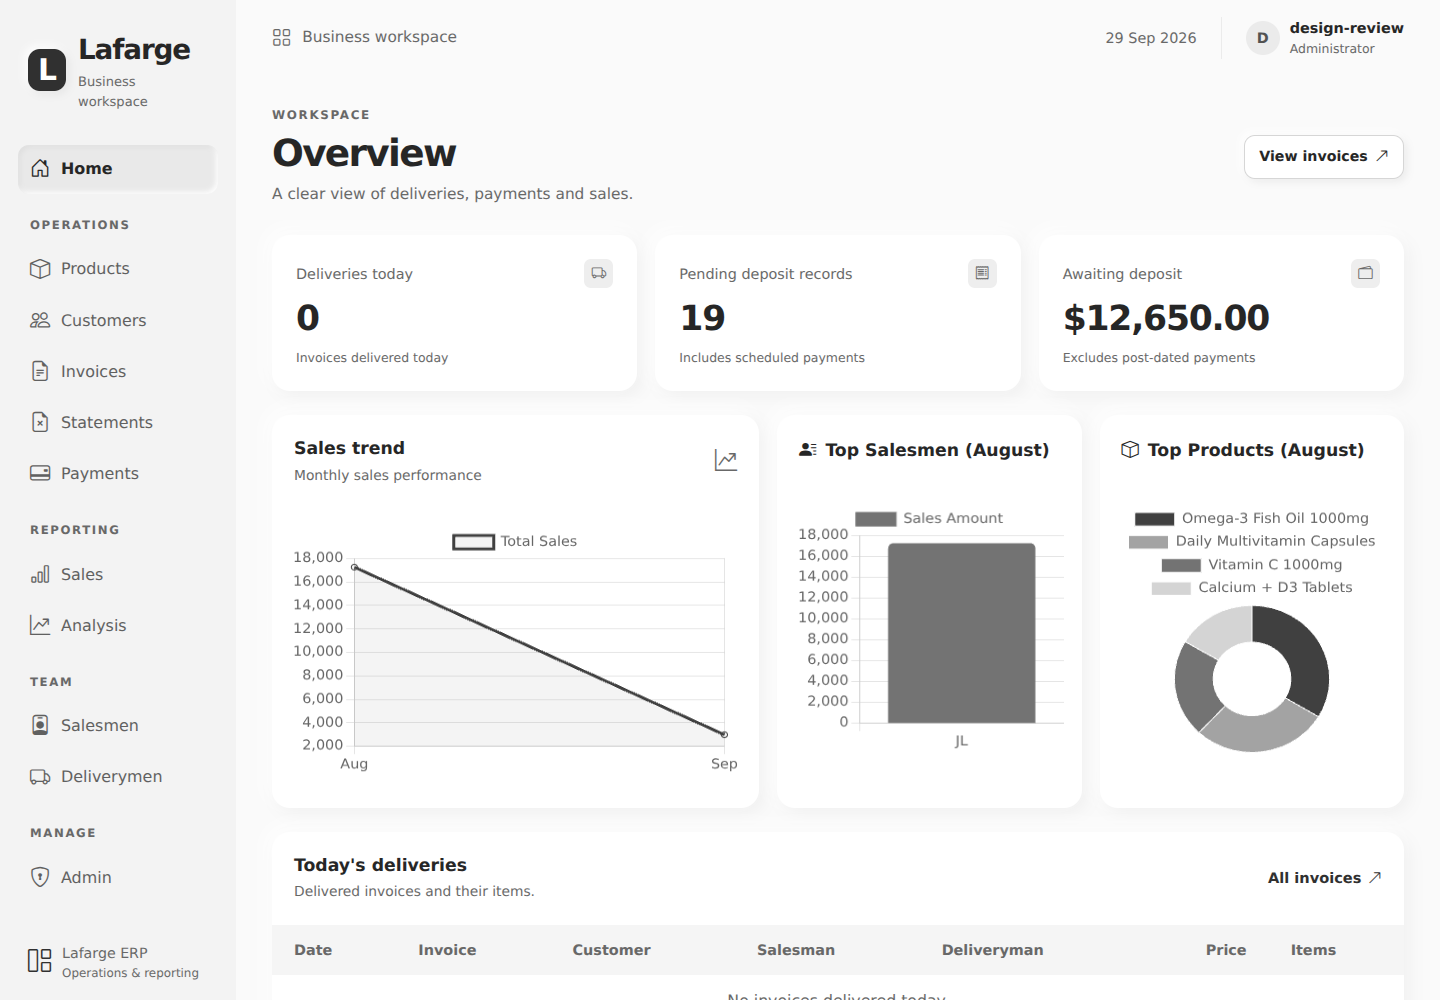
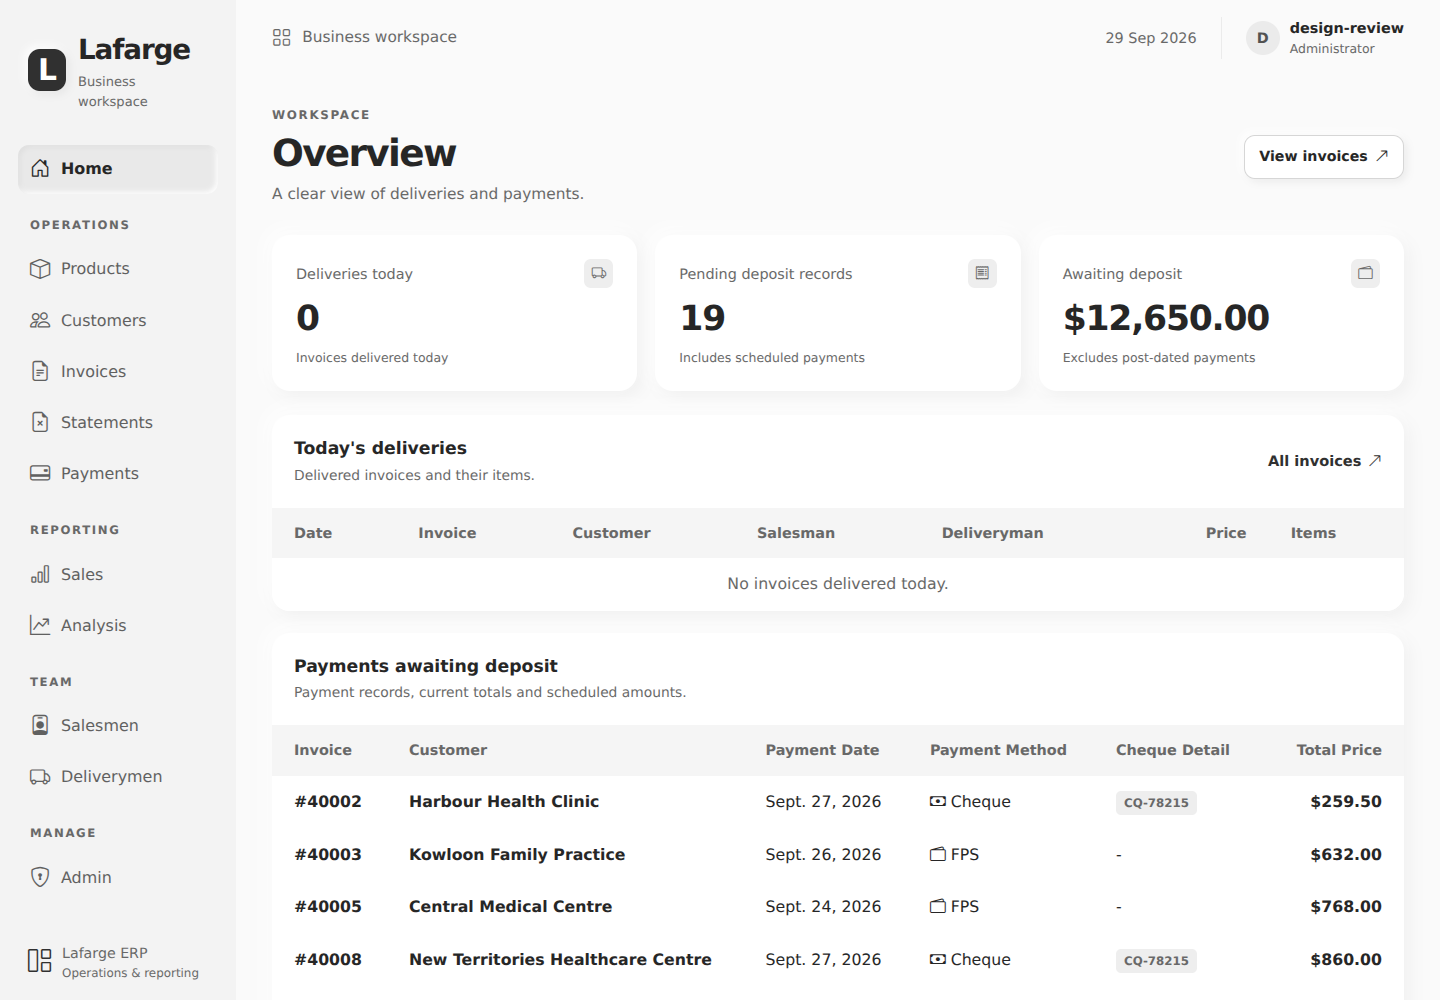
Remove analytics panels from home dashboard

diff --git a/lafarge/invoice/templates/invoice/home.html b/lafarge/invoice/templates/invoice/home.html
@@ -2,16 +2,11 @@
 {% load custom_filter %}
 {% block page_section %}Workspace{% endblock %}
 {% block page_title %}Overview{% endblock %}
-{% block page_description %}A clear view of deliveries, payments and sales.{% endblock %}
+{% block page_description %}A clear view of deliveries and payments.{% endblock %}
 {% block page_actions %}<a href="{% url 'invoice_list' %}" class="btn btn-outline-primary">View invoices <i class="bi bi-arrow-up-right" aria-hidden="true"></i></a>{% endblock %}
 
 {% block content %}
-<div class="metrics-grid"><div class="metric-card"><div class="metric-top"><span>Deliveries today</span><i class="bi bi-truck" aria-hidden="true"></i></div><strong>{{ invoices_today|length }}</strong><small>Invoices delivered today</small></div><div class="metric-card"><div class="metric-top"><span>Pending deposit records</span><i class="bi bi-receipt" aria-hidden="true"></i></div><strong>{{ pending_deposits|length }}</strong><small>Includes scheduled payments</small></div><div class="metric-card"><div class="metric-top"><span>Awaiting deposit</span><i class="bi bi-wallet2" aria-hidden="true"></i></div><strong>${{ total_pending_deposit|currency }}</strong><small>Excludes post-dated payments</small></div></div>{% if user.is_superuser or user.username == 'lafarge' %}
-<div class="dashboard-charts">
-<section class="data-panel trend-panel"><div class="panel-toolbar"><div><h2>Sales trend</h2><p>Monthly sales performance</p></div><i class="bi bi-graph-up-arrow" aria-hidden="true"></i></div><div class="chart-body"><canvas id="salesChart"></canvas></div></section>
-<section class="data-panel border-left-success"><div class="panel-toolbar"><h2 class="card-title">Sales by salesman</h2></div><div class="chart-body"><canvas id="salesmanChart"></canvas></div></section>
-<section class="data-panel"><div class="panel-toolbar"><h2 id="productTitle" class="card-title">Product insights</h2></div><div class="chart-body"><canvas id="productChart"></canvas></div></section>
-</div>{% endif %}
+<div class="metrics-grid"><div class="metric-card"><div class="metric-top"><span>Deliveries today</span><i class="bi bi-truck" aria-hidden="true"></i></div><strong>{{ invoices_today|length }}</strong><small>Invoices delivered today</small></div><div class="metric-card"><div class="metric-top"><span>Pending deposit records</span><i class="bi bi-receipt" aria-hidden="true"></i></div><strong>{{ pending_deposits|length }}</strong><small>Includes scheduled payments</small></div><div class="metric-card"><div class="metric-top"><span>Awaiting deposit</span><i class="bi bi-wallet2" aria-hidden="true"></i></div><strong>${{ total_pending_deposit|currency }}</strong><small>Excludes post-dated payments</small></div></div>
 <div class="page-stack"><section class="data-panel"><div class="panel-toolbar"><div><h2>Today's deliveries</h2><p>Delivered invoices and their items.</p></div><a class="row-action" href="{% url 'invoice_list' %}">All invoices <i class="bi bi-arrow-up-right" aria-hidden="true"></i></a></div><div class="table-responsive" tabindex="0" role="region" aria-label="Today's deliveries"><table class="table align-middle">
                     <thead class="bg-light text-dark">
                     <tr>
@@ -127,8 +122,7 @@
                     {% endfor %}
                     </tfoot>
 
-                </table></div></section></div><script src="https://cdn.jsdelivr.net/npm/chart.js"></script>
-<script>Chart.defaults.font.size = parseFloat(getComputedStyle(document.documentElement).fontSize) * 0.75;</script>
+                </table></div></section></div>
 <script>
 document.addEventListener("DOMContentLoaded", function () {
     document.querySelectorAll("tr[data-href]").forEach(row => {
@@ -137,106 +131,5 @@ document.addEventListener("DOMContentLoaded", function () {
         });
     });
 });
-
-async function fetchSalesmanInsights() {
-    try {
-        const response = await fetch("{% url 'sales_data' %}");
-        const data = await response.json();
-
-        console.log("API Response:", data);
-
-        if (!data.sales_per_month || !data.sales_by_salesman) {
-            console.error("API response is missing required fields:", data);
-            return;
-        }
-
-        const monthNames = ["", "Jan", "Feb", "Mar", "Apr", "May", "Jun", "Jul", "Aug", "Sep", "Oct", "Nov", "Dec"];
-
-        const months = data.sales_per_month.map(item => monthNames[item.month]);
-        const sales = data.sales_per_month.map(item => item.total_sales);
-
-        const salesmen = data.sales_by_salesman.map(item => item.salesman__code);
-        const salesAmounts = data.sales_by_salesman.map(item => item.total_sales);
-
-        // Sales Trend Chart
-        new Chart(document.getElementById("salesChart"), {
-            type: "line",
-            data: {
-                labels: months,
-                datasets: [{
-                    label: "Total Sales",
-                    data: sales,
-                    borderColor: "#404040",
-                    backgroundColor: "rgba(64, 64, 64, 0.06)",
-                    fill: true
-                }]
-            },
-            options: { responsive: true, maintainAspectRatio: false }
-        });
-        // Update Sales by Salesman Chart Title
-                document.querySelector(".border-left-success .card-title").innerHTML =
-                    `<i class="bi bi-person-lines-fill" aria-hidden="true"></i> Top Salesmen (${data.last_month_name})`;
-        // Sales by Salesman Chart
-        new Chart(document.getElementById("salesmanChart"), {
-            type: "bar",
-            data: {
-                labels: salesmen,
-                datasets: [{
-                    label: "Sales Amount",
-                    data: salesAmounts,
-                    backgroundColor: "#737373",
-                    borderColor: "#737373",
-                    borderWidth: 1,
-                    borderRadius: 5
-                }]
-            },
-            options: { responsive: true, maintainAspectRatio: false }
-        });
-
-    } catch (error) {
-        console.error("Error fetching data:", error);
-    }
-}
-
-fetchSalesmanInsights();
-
-async function fetchProductInsights() {
-    try {
-        const response = await fetch("{% url 'product_insights' %}");
-        const data = await response.json();
-
-        if (!data.product_sales || !data.last_month_name) {
-            console.error("API response is missing required fields:", data);
-            return;
-        }
-
-        // Update the title with the previous month's name
-        document.getElementById("productTitle").innerHTML = `<i class="bi bi-box" aria-hidden="true"></i> Top Products (${data.last_month_name})`;
-
-        const products = data.product_sales.map(item => item.invoiceitem__product__name);
-        const revenues = data.product_sales.map(item => item.total_revenue);
-
-        new Chart(document.getElementById("productChart"), {
-            type: "doughnut",
-            data: {
-                labels: products,
-                datasets: [{
-                    label: "Total Revenue",
-                    data: revenues,
-                    backgroundColor: ["#404040", "#a3a3a3", "#737373", "#d4d4d4", "#525252", "#bdbdbd"],
-                    borderColor: "#fff",
-                    borderWidth: 1
-                }]
-            },
-            options: { responsive: true, maintainAspectRatio: false }
-        });
-
-    } catch (error) {
-        console.error("Error fetching product insights:", error);
-    }
-}
-
-fetchProductInsights();
-
 </script>
 {% endblock %}

diff --git a/lafarge/static/css/style.css b/lafarge/static/css/style.css
@@ -616,27 +616,6 @@
     gap: 22px;
     margin: 0;
 }
-.dashboard-charts {
-    display: grid;
-    grid-template-columns: 1.6fr 1fr 1fr;
-    gap: 18px;
-    margin-bottom: 24px;
-}
-.dashboard-charts .panel-toolbar {
-    min-height: 70px;
-}
-.chart-body {
-    padding: 18px;
-}
-.erp-app .chart-container {
-    position: relative;
-    width: 100%;
-    height: 500px;
-}
-.page-home canvas {
-    width: 100% !important;
-    height: 220px !important;
-}
 
 /* Table containers own scrolling; table elements keep their native semantics. */
 .erp-app .table-responsive {
@@ -959,10 +938,6 @@
 #monthly-payment-table th[aria-sort="descending"] .sort-up {
     opacity: 0.2;
 }
-.page-home canvas {
-    width: 100% !important;
-    height: 250px !important;
-}
 .erp-app .chart-container {
     position: relative;
     width: 100%;
@@ -1059,12 +1034,6 @@
     }
     .workspace-header {
         padding-inline: 24px;
-    }
-    .dashboard-charts {
-        grid-template-columns: 1fr 1fr;
-    }
-    .trend-panel {
-        grid-column: 1 / -1;
     }
     .filter-grid {
         grid-template-columns: 1fr 1fr;
@@ -1172,9 +1141,6 @@
     }
     .metric-card > strong {
         font-size: 1.55rem;
-    }
-    .dashboard-charts {
-        grid-template-columns: 1fr;
     }
     .panel-toolbar {
         padding: 16px;
